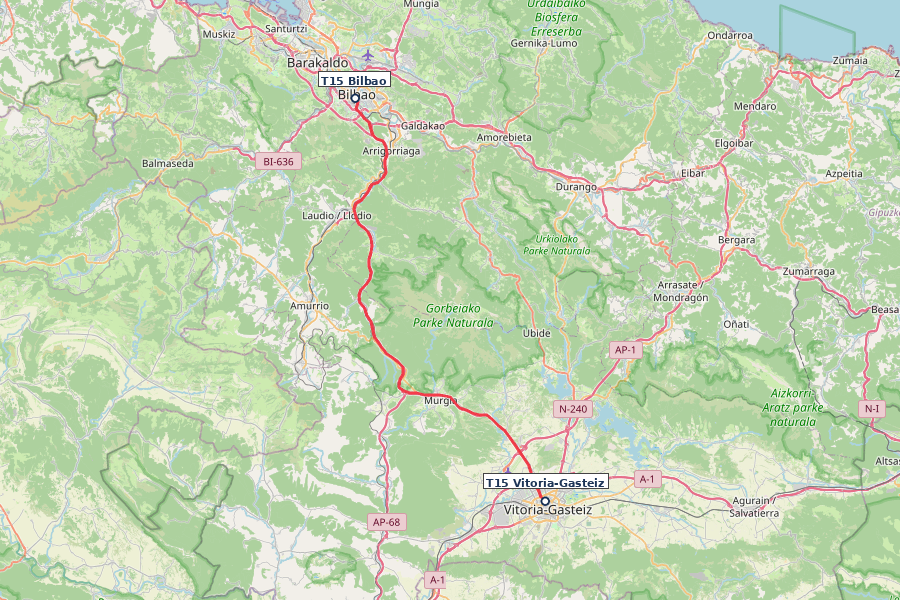
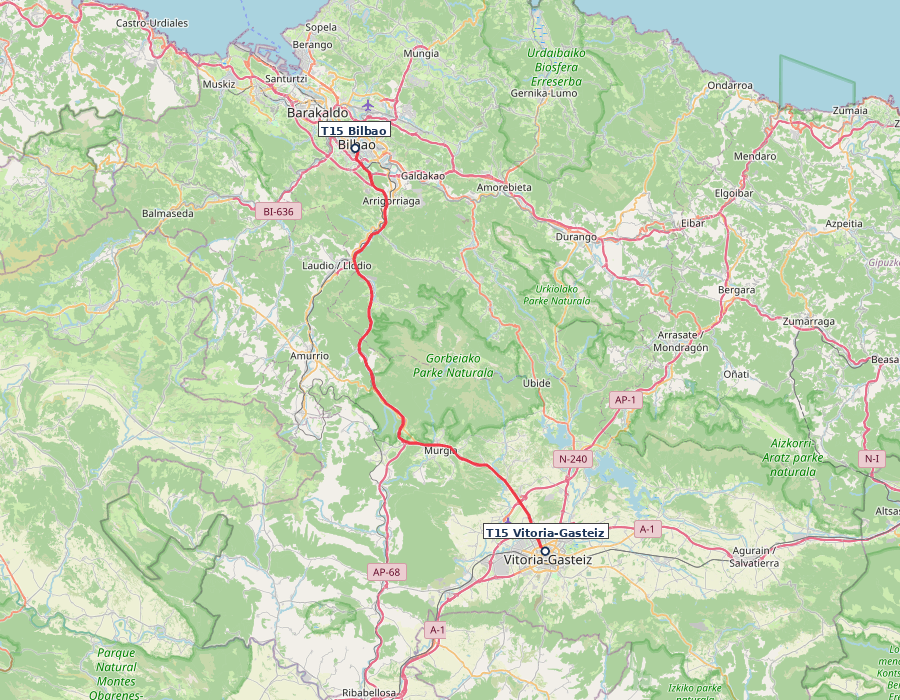
feat(scripts): auto-calculate map height based on route geometry
- calculate optimal height from route bounding box
- min height 300px, max height 700px
- reduces wasted space on horizontal routes (e.g. coastline)
- re-render all nordspanien maps with new dimensions

diff --git a/scripts/render_roadtrip_map.py b/scripts/render_roadtrip_map.py
@@ -130,15 +130,79 @@ def geo_to_pixel(lon: float, lat: float, m: StaticMap) -> tuple[int, int]:
 # ---------------------------------------------------------------------------
 
 
+def calculate_dimensions(
+    coords: list[tuple[float, float]],
+    stations: list[tuple[str, float, float]],
+    pois: list[tuple[str, str, float, float]],
+    target_width: int = 900,
+    min_height: int = 300,
+    max_height: int = 700,
+) -> tuple[int, int]:
+    """Calculate optimal map dimensions based on route bounding box.
+
+    Returns (width, height) where width is fixed and height adapts to the route's
+    aspect ratio, clamped between min_height and max_height.
+    """
+    # Collect all coordinates
+    all_coords = list(coords)
+    all_coords.extend((lon, lat) for _, lon, lat in stations)
+    all_coords.extend((lon, lat) for _, _, lon, lat in pois)
+
+    if not all_coords:
+        return target_width, 500
+
+    lons = [c[0] for c in all_coords]
+    lats = [c[1] for c in all_coords]
+
+    min_lon, max_lon = min(lons), max(lons)
+    min_lat, max_lat = min(lats), max(lats)
+
+    # Calculate geographic span
+    lon_span = max_lon - min_lon
+    lat_span = max_lat - min_lat
+
+    # Avoid division by zero
+    if lon_span < 0.001:
+        lon_span = 0.001
+    if lat_span < 0.001:
+        lat_span = 0.001
+
+    # Approximate aspect ratio (latitude degrees are ~111 km, longitude varies by latitude)
+    # At ~43° latitude (northern Spain), 1° longitude ≈ 81 km
+    avg_lat = (min_lat + max_lat) / 2
+    lon_km = lon_span * 111 * math.cos(math.radians(avg_lat))
+    lat_km = lat_span * 111
+
+    # Calculate height based on geographic aspect ratio
+    geo_ratio = lat_km / lon_km if lon_km > 0 else 1.0
+    calculated_height = int(target_width * geo_ratio)
+
+    # Add some padding for labels (roughly 15% extra height)
+    calculated_height = int(calculated_height * 1.15)
+
+    # Clamp to min/max
+    height = max(min_height, min(calculated_height, max_height))
+
+    return target_width, height
+
+
 def render_map(
     coords: list[tuple[float, float]],
     stations: list[tuple[str, float, float]],
     pois: list[tuple[str, str, float, float]],
     output_path: str,
-    width: int = 900,
-    height: int = 600,
+    width: int | None = None,
+    height: int | None = None,
 ) -> None:
-    """Render route, stations, POIs, and legend overlay to a PNG map."""
+    """Render route, stations, POIs, and legend overlay to a PNG map.
+
+    If width/height are not specified, dimensions are calculated automatically
+    based on the route's geographic extent.
+    """
+    # Auto-calculate dimensions if not specified
+    if width is None or height is None:
+        width, height = calculate_dimensions(coords, stations, pois)
+
     m = StaticMap(width, height, padding_x=40, padding_y=40)
 
     # Simplify track for rendering
@@ -289,8 +353,8 @@ def main():
         default=[],
         help="POI markers as 'category:name:lon,lat' (categories: art, hike, swim, food, wine, sight, nature, coffee)",
     )
-    parser.add_argument("--width", type=int, default=900)
-    parser.add_argument("--height", type=int, default=600)
+    parser.add_argument("--width", type=int, default=None, help="Map width in pixels (default: 900)")
+    parser.add_argument("--height", type=int, default=None, help="Map height in pixels (default: auto-calculated from route)")
 
     args = parser.parse_args()
 
@@ -298,10 +362,16 @@ def main():
     stations = [parse_station(s) for s in args.stations]
     pois = [parse_poi(p) for p in args.pois]
 
-    print(f"Loaded {len(coords)} track points from GPX")
-    print(f"Rendering map with {len(stations)} stations, {len(pois)} POIs...")
+    # Calculate dimensions
+    width = args.width if args.width else 900
+    height = args.height
+    if height is None:
+        width, height = calculate_dimensions(coords, stations, pois, target_width=width)
 
-    render_map(coords, stations, pois, args.output_png, args.width, args.height)
+    print(f"Loaded {len(coords)} track points from GPX")
+    print(f"Rendering map ({width}×{height} px) with {len(stations)} stations, {len(pois)} POIs...")
+
+    render_map(coords, stations, pois, args.output_png, width, height)
 
 
 if __name__ == "__main__":
